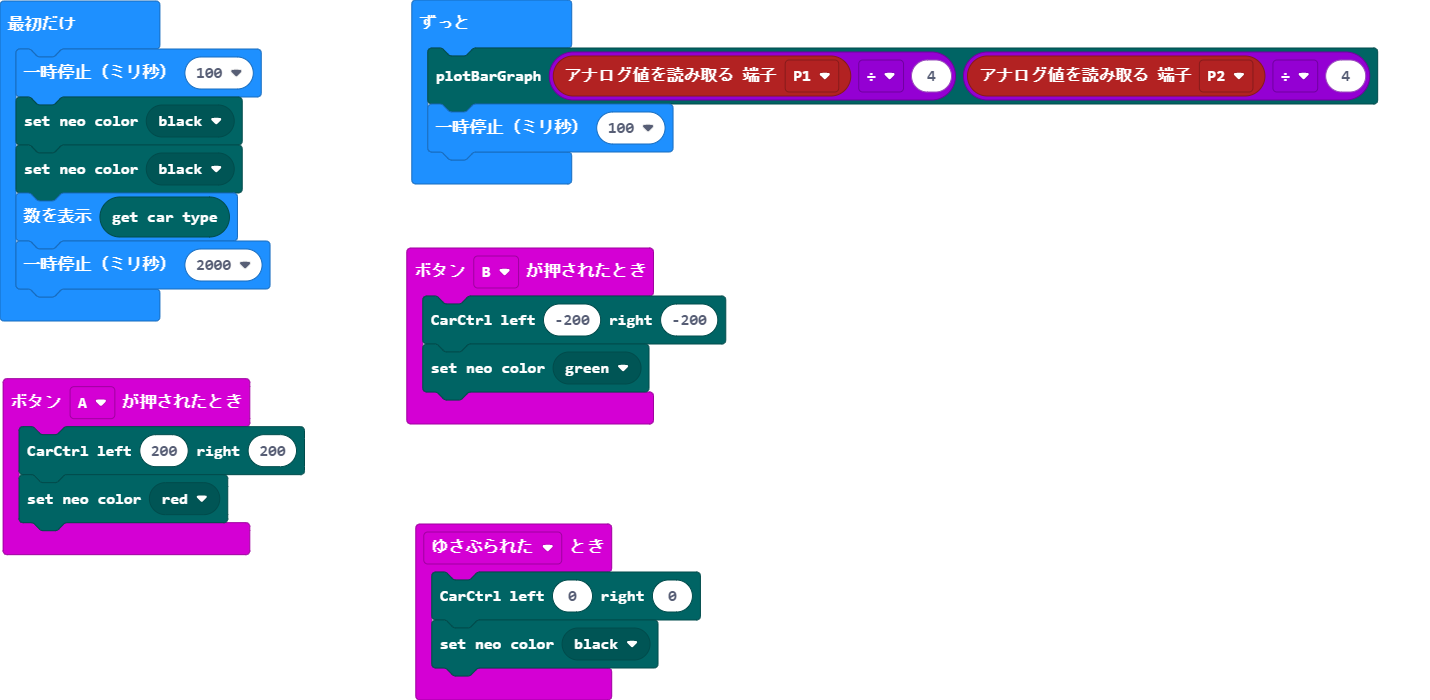
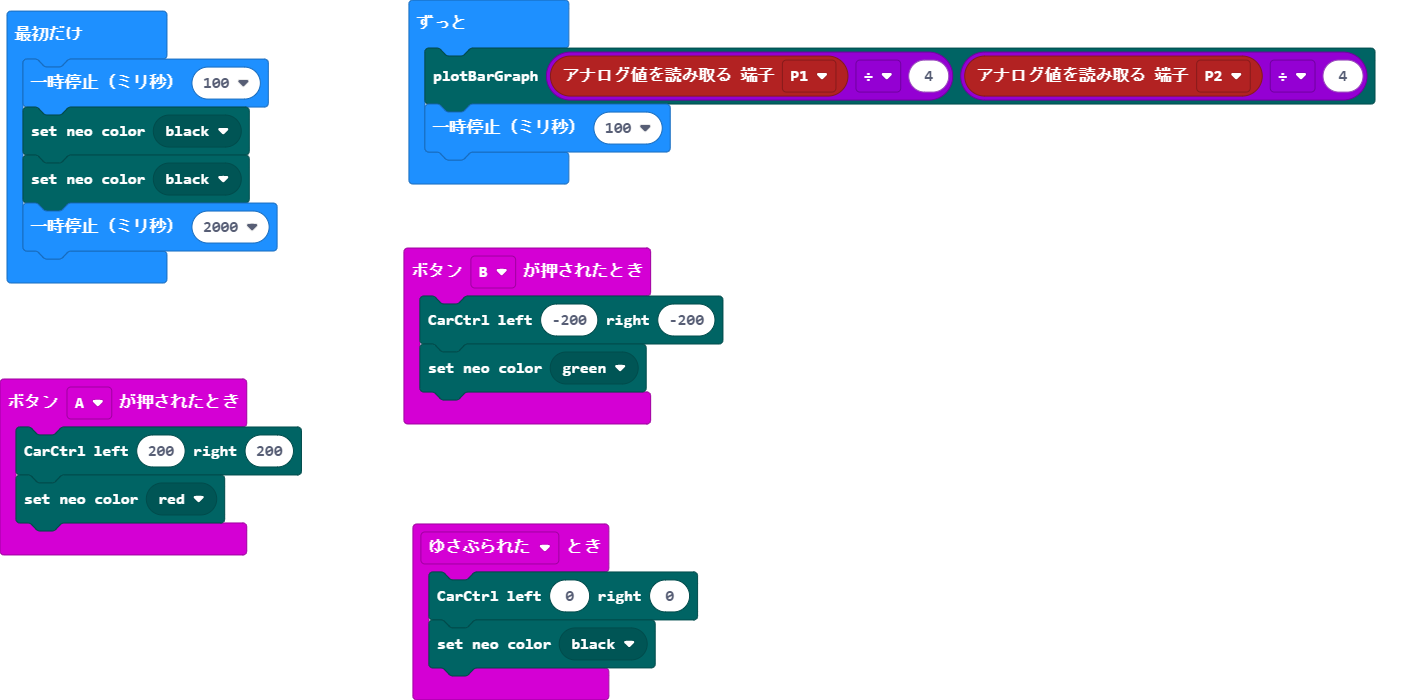
更新 pxt.json, main.blocks, main.ts

diff --git a/main.ts b/main.ts
@@ -1,21 +1,20 @@
 input.onButtonPressed(Button.A, function () {
-    carcotrol.carCtrl(200, 200)
-    carcotrol.setNeoColor(carcotrol.colors(RGBColors.Red))
+    porocar.carCtrl(200, 200)
+    porocar.setNeoColor(porocar.colors(RGBColors.Red))
 })
 input.onGesture(Gesture.Shake, function () {
-    carcotrol.carCtrl(0, 0)
-    carcotrol.setNeoColor(carcotrol.colors(RGBColors.Black))
+    porocar.carCtrl(0, 0)
+    porocar.setNeoColor(porocar.colors(RGBColors.Black))
 })
 input.onButtonPressed(Button.B, function () {
-    carcotrol.carCtrl(-200, -200)
-    carcotrol.setNeoColor(carcotrol.colors(RGBColors.Green))
+    porocar.carCtrl(-200, -200)
+    porocar.setNeoColor(porocar.colors(RGBColors.Green))
 })
 basic.pause(100)
-carcotrol.setNeoColor(carcotrol.colors(RGBColors.Black))
-carcotrol.setNeoColor(carcotrol.colors(RGBColors.Black))
-basic.showNumber(carcotrol.getCarType())
+porocar.setNeoColor(porocar.colors(RGBColors.Black))
+porocar.setNeoColor(porocar.colors(RGBColors.Black))
 basic.pause(2000)
 basic.forever(function () {
-    carcotrol.plotBarGraph(pins.analogReadPin(AnalogPin.P1) / 4, pins.analogReadPin(AnalogPin.P2) / 4)
+    porocar.plotBarGraph(pins.analogReadPin(AnalogPin.P1) / 4, pins.analogReadPin(AnalogPin.P2) / 4)
     basic.pause(100)
 })
